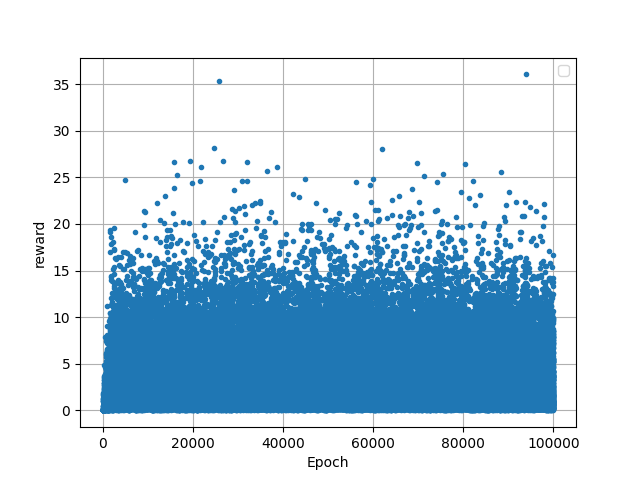
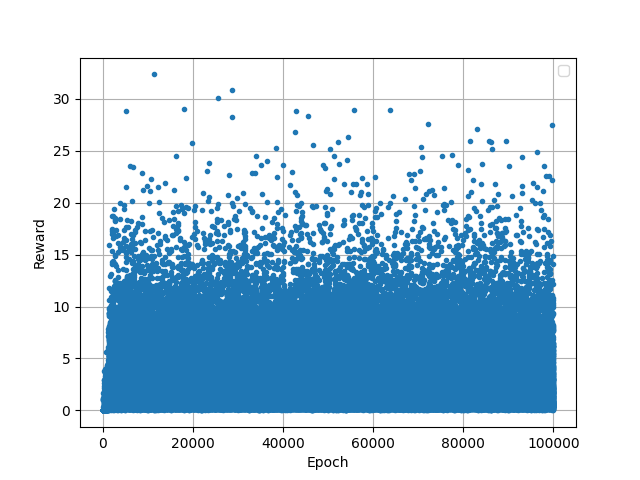
more changes to making the plot work

diff --git a/HW2/QLearning.py b/HW2/QLearning.py
@@ -7,8 +7,8 @@ import matplotlib.pyplot as plt
 
 # Parsing
 parser = argparse.ArgumentParser(description='Run Q-Learning on the icy lake.')
-parser.add_argument('--iterations', default=100000, help='The number of iterations to train for, default is 100,000')
-parser.add_argument('--show_final_policy', default=False, help='Decide whether or not to show five games at the end for the user to watch, default is False')
+parser.add_argument('--iterations', type=int, default=100000, help='The number of iterations to train for, default is 100,000')
+parser.add_argument('--show_final_policy', type=bool, default=False, help='Decide whether or not to show five games at the end for the user to watch, default is False')
 args = parser.parse_args()
 
 
@@ -98,7 +98,7 @@ plt.plot(range(args.iterations),
 plt.grid()
 plt.legend()
 plt.xlabel('Epoch')
-plt.ylabel('reward')
+plt.ylabel('Reward')
 plt.savefig('0.png')
 plt.show()
 
